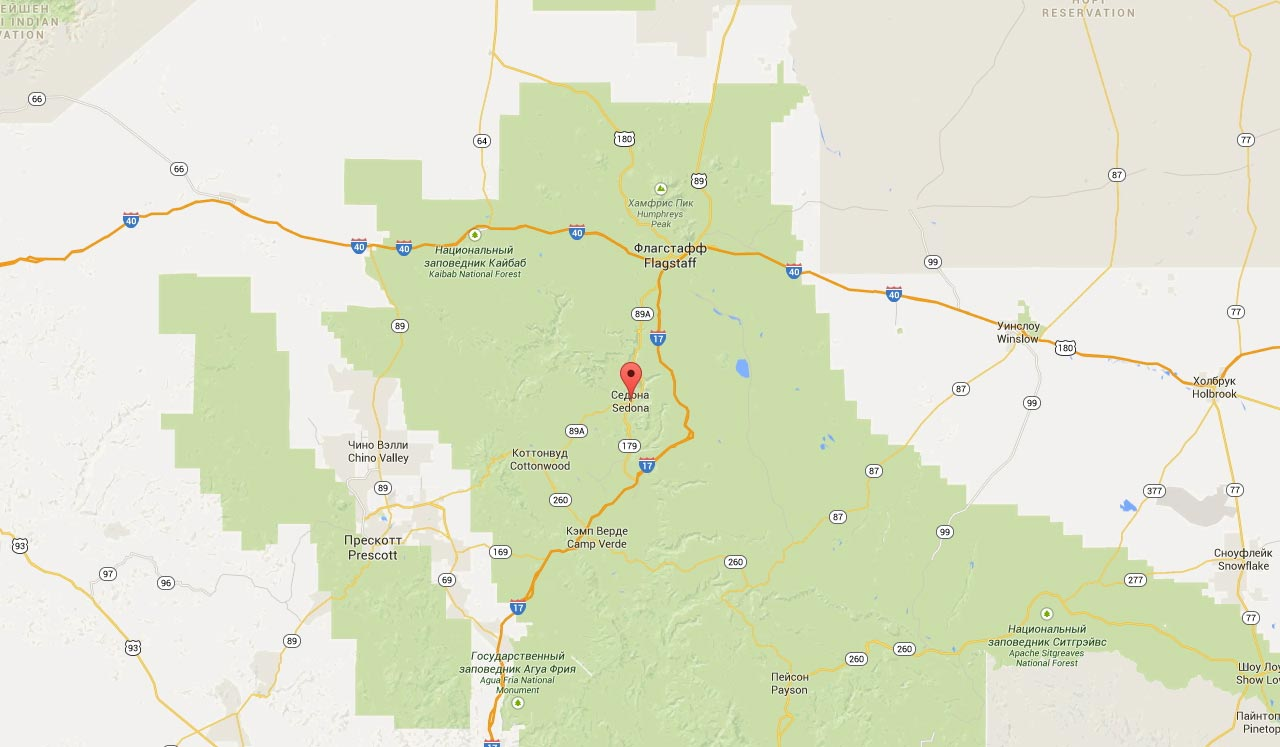
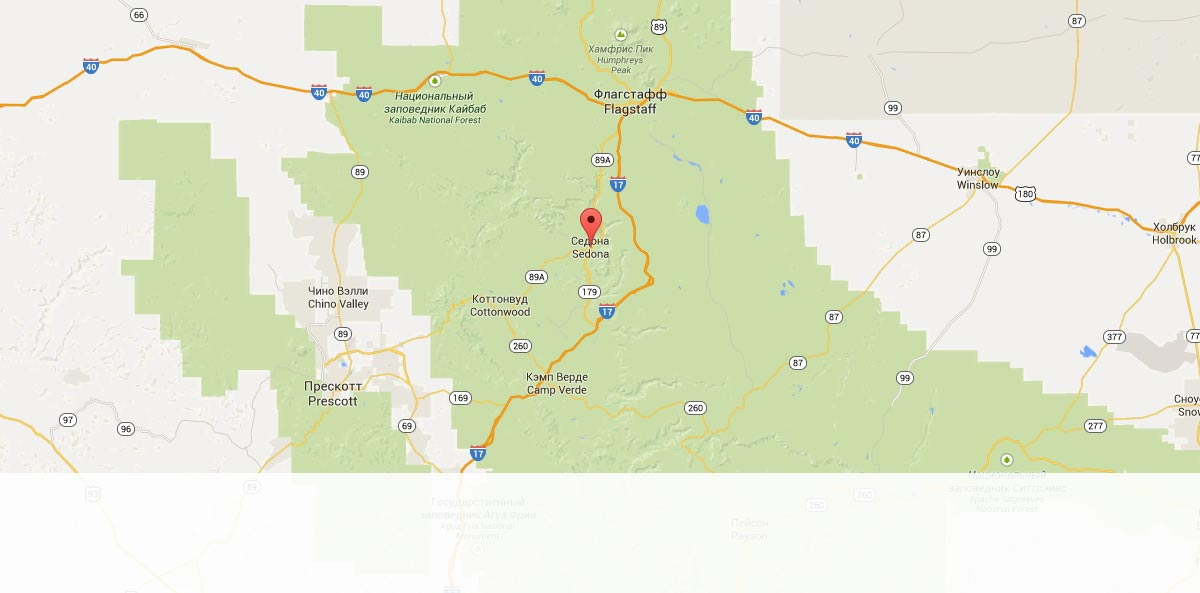
Сетка для главной страницы

diff --git a/index.html b/index.html
@@ -9,75 +9,63 @@
   <body>
     <div class="container"> 
       <header class="main-header">
-        <nav class="main-navigation">
-          <ul class="nav-left">
-            <li>
-              <a href="#">Информация</a>
-            </li>
-            <li>
-              <a href="#">Фото и видео</a>
-            </li>
-          </ul>
-
-          <a><img src="img/logo.png" width="138" height="70" alt="Logo"></a>
-
-          <ul class="nav-right">
-            <li>
-              <a href="#">Карта штата</a>
-            </li>
-            <li>
-              <a href="#">Гостиницы</a>
-            </li>
-          </ul>
+        <nav class="main-navigation row">
+          <a class="nav-left" href="#">Информация</a>
+          <a class="nav-left" href="#">Фото и видео</a>
+          <a class="main-logo"><img src="img/logo.png" width="138" height="70" alt="Logo"></a>
+          <a class="nav-right" href="#">Гостиницы</a>
+          <a class="nav-right" href="#">Карта штата</a>
         </nav>
       </header>
 
       <main>
         <div class="header-photo">
-          <img src="img/welcome.png" width="512" height="387" alt="Welcome to Gorgeous Sedona">
-        </div>
-
-        <div class="text-block">
+          <img src="img/welcome.png" width="458" height="352" alt="Welcome to Gorgeous Sedona">
+          
+          <div class="text-block text-1">
           <h2>Седона-небольшой городок в Аризоне, заслуживающий большего!</h2>
           <p>Рассмотрим 5 причин, по которым Седона круче, чем Гранд Каньон!</p>
+          </div>
         </div>
 
-        <section class="photo-features">
-          <div class="text-block">
+        
+
+        <section class="photo-features row">
+          <div class="text-block text-2">
             <h2>Настоящий городок</h2>
             <p>- №1 -</p>
             <p>Седона - не аттракцион для туристов, там течет своя жизнь</p>
           </div>
-          <div class="photo">
-            <img src="img/sedona-view.jpg" width="1600" height="800" alt="Виды Седоны">
+          <div class="photo photo-1">
+            <img src="img/sedona-view.jpg" width="800" height="" alt="Виды Седоны">
           </div>
         </section>
 
         <section class="suggestions">
-          <div class="text-block">
+          <div class="text-block text-3">
             <img src="img/motel.png" width="75" height="72" alt="">
             <h2>Жилье</h2>
             <p>Рекомендуем пожить в настоящем мотеле,все как в кино!</p>
           </div>
 
-          <div class="text-block">
+          <div class="text-block text-3">
             <img src="img/burger.png" width="74" height="70" alt=""> 
             <h2>Еда</h2>
             <p>Всегда заказывайте фирменный бургер, Вы не разочаруетесь!</p>
           </div>
 
-          <div class="text-block">
+          <div class="text-block text-3">
             <img src="img/gift.png" width="64" height="76" alt=""> 
             <h2>Сувениры</h2>
             <p>Не только китайского, но и местного производства!</p>
           </div>
         </section>
 
-        <section class="photo-features">
-          <div class="photo">
-            <img src="img/d-bridge.jpg" width="1600" height="800" alt="Мост дьявола">
+        <section class="photo-features row">
+          <div class="photo photo-2">
+            <img src="img/d-bridge.jpg" width="800" height="" alt="Мост дьявола">
           </div> 
-          <div class="text-block">
+          <div class="text-block text-2">
             <h2>Там есть Мост дьявола</h2>
             <p>- №2 -</p>
             <p>Да, по нему можно пройти! Если конечно Вы осмелитесь</p>
@@ -85,45 +73,47 @@
         </section>
 
         <section class="other-features">
-          <div class="text-block">
+          <div class="text-block text-4">
             <h2>Небольшая площадь</h2>
             <p>- №3 -</p>
             <p>Все достопримечательности находятся очень близко</p>
           </div>
 
-          <div class="text-block">
+          <div class="text-block text-4">
             <h2>Красивая дорога</h2>
             <p>- №4 -</p>
             <p>Ехать в Седону из Лас-Вегаса совсем не скучно!</p>
           </div>
 
-          <div class="text-block">
+          <div class="text-block text-4">
             <h2>Мало туристов</h2>
             <p>- №5 -</p>
             <p>Большинство едет в Гранд Каньон и толпится там</p>
           </div>
         </section>
-
-        <div class="search-form">
-          <h1>Заинтересовались?</h1>
-          <p>Укажите предполагаемые даты поездки, и мы покажем Вам лучшие предложения гостиниц в Седоне</p>
-          <img src="img/map.jpg" width="1280" height="747" alt="карта">
+         
+        <section class="search-form">
+          <div class="hook">
+            <h1>Заинтересовались?</h1>
+            <p>Укажите предполагаемые даты поездки,
+            и мы покажем Вам  лучшие предложения гостиниц в Седоне</p>
+          </div>
           <form action="#" method="get">
-            <div>
-              <a class="btn" href="js/#">Поиск гостиницы в Седоне</a> 
+            <div class="btn search">
+              <a href="js/#">Поиск гостиницы в Седоне</a> 
             </div>
 
-            <div>
+            <div class="hidden">
               <label for="arrival">Дата заезда:</label>
               <input id="arrival" type="text" name="arrival-date" value="24 апреля 2016">
             </div>
 
-            <div>
+            <div class="hidden">
               <label for="departure">Дата выезда:</label>
               <input id="departure" type="text" name="departure-date" value="4 июля 2016">
             </div>
 
-            <div>
+            <div class="hidden">
               <label for="adults">Взрослые:</label>
               <input id="adults" type="number" name="adults-counter" min="1" max="20" step="1" value="2">
 
@@ -131,12 +121,12 @@
               <input id="children" type="number" name="children-counter" min="0" max="20" step="1" value="0">
             </div>
 
-            <div>
-              <button class="btn" type="submit" value="find" name="find" formtarget="_blank">Найти</button>
+            <div class="btn find">
+              <button type="submit" value="find" name="find" formtarget="_blank">Найти</button>
             </div>
-
           </form>
-        </div>
+          <img src="img/map.jpg" width="1200" height="593" alt="карта">
+        </section>
       </main>
 
       <footer class="main-footer">

diff --git a/css/style.css b/css/style.css
@@ -1,3 +1,10 @@
+html,
+body {
+  background-color: rgb(108, 108, 108);
+  margin: 0;
+  padding: 0;
+}
+
 body {
   font-family: "PT Sans";
   font-weight: normal;
@@ -5,6 +12,175 @@ body {
   line-height: 26px;
   color: rgb(51, 51, 51);
   
+  margin: 0 auto;
+  max-width: 1280px;
+  background-color: rgb(242, 242, 242);
+/*  background: url("../img/sedona-index-1200.png") no-repeat;*/
+}
+
+.container {
+  width: 1200px;
+  background-color: rgb(255, 255, 255);
+  margin: 0 auto;  
+  text-align: center;
+}
+
+header {
+  min-height: 56px;
+  position: relative;
+}
+
+.nav-left,
+.nav-right {
+  width: 240px;
+  padding: 15px 0;
+}
+
+.nav-left,
+.text-2,
+.photo-2 {
+  float: left;
+}
+
+.nav-right,
+.photo-1,
+.text-6 {
+  float: right;
+}
+
+.row::after {
+  content: "";
+  display: table;
+  clear: both;
+}
+
+.main-logo {
+  position: absolute;
+  left: 531px;  
+}
+
+.header-photo {
+  width: 1200px;
+  height: 724px;
+  background-size: cover;
+  background: url("../img/header-background.jpg") no-repeat; 
+}
+
+.header-photo img {
+  width: 458px;
+  height: 352px;
+  margin-right: auto;
+  margin-bottom: 110px;
+  padding-top: 76px;
+}
+
+.photo-features {
+  width: 1200px;
+  height: 256px;
+}
+
+.photo-1,
+.photo-2 {
+  width: 800px;
+  height: 256px;
+}
+
+.text-2 {
+  width: 400px;
+  min-height: 206px;
+  padding-top: 50px;
+  background-color: rgb(129, 179, 210);
+}
+
+.suggestions,
+.other-features,
+.main-footer {
+  font-size: 0px;
+}
+
+.suggestions div {
+  background-color: rgb(255, 255, 255);
+}
+
+.other-features div {
+  background-color: rgb(238, 238, 238);
+}
+
+.text-3,
+.text-4 {
+  display: inline-block;
+  font-size: 14px;
+  line-height: 26px;
+  width: 400px;
+  min-height: 273px;
+  vertical-align: top;
+  padding-top: 56px;
+}
+
+.text-4 {
+  min-height: 200px;
+}
+
+.hook {
+  width: 1200px;
+  min-height: 205px;
+}
+
+.hook h1 {
+  margin-top: 0px;
+  padding-top: 60px;
+  margin-bottom: 25px; 
+}
+
+.hook p {
+  white-space: pre;
+  margin: 0 auto;
+}
+
+form {
+  width: 572px;
+  margin: 0 auto;
+}
+
+div .search {
+  width: 572px;
+  height: 85px;
+  background-color: rgb(118, 99, 87);
+  margin-top: 1px;
+}
+
+div .hidden,
+div .find {
+  display: none;
+  width: 572px;
+  height: 99px; 
+}
+
+.search-form img {
+  width: 1200px;
+  height: 594px;
+}
+
+.main-footer {
+  margin-top: -128px;
+}
+
+.main-footer section {
+  display: inline-block;
+  font-size: 14px;
+  line-height: 26px;
+  width: 400px;
+  min-height: 70px;
+  vertical-align: top;
+  margin-top: -2px;
+  padding-top: 51px;
+}
+
+.footer-copyright p {
+  display: inline-block;
+  vertical-align:text-bottom;
+  margin-top: 0px;
+  margin-left: 95px;
 }
 
 h1,
